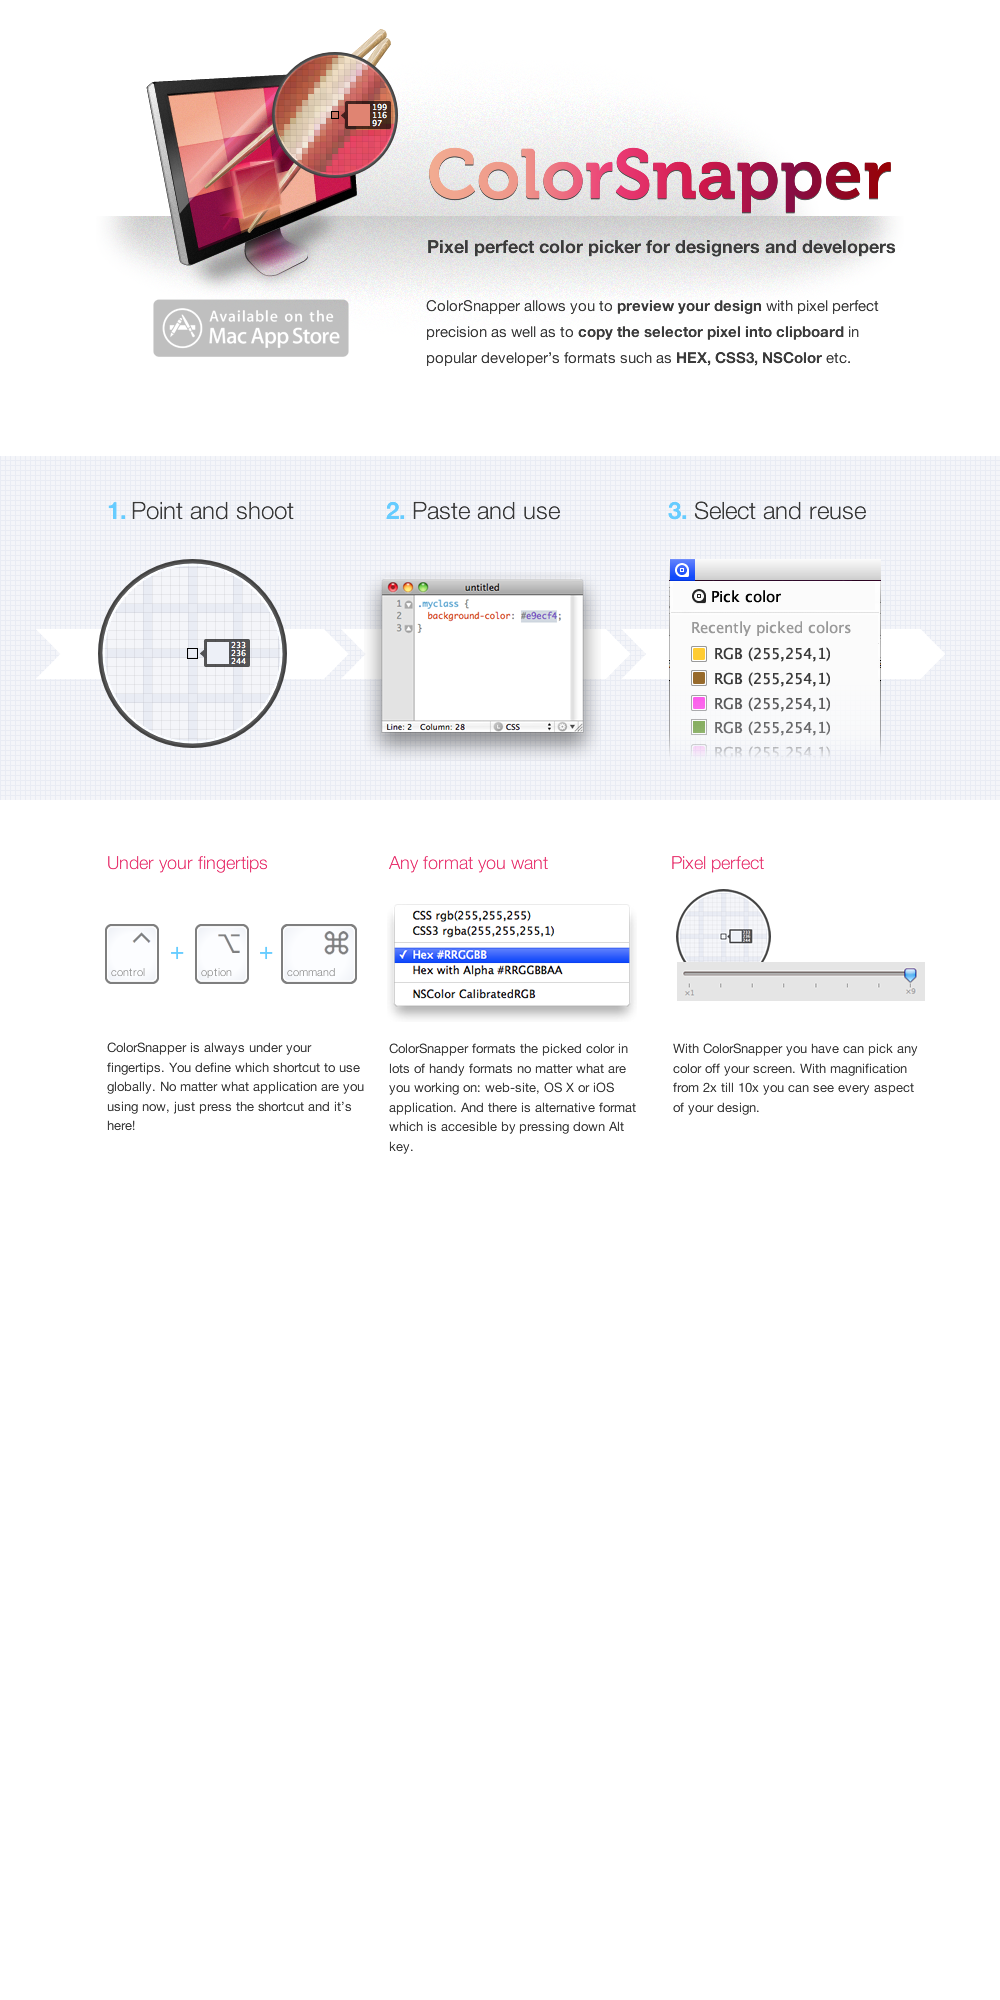
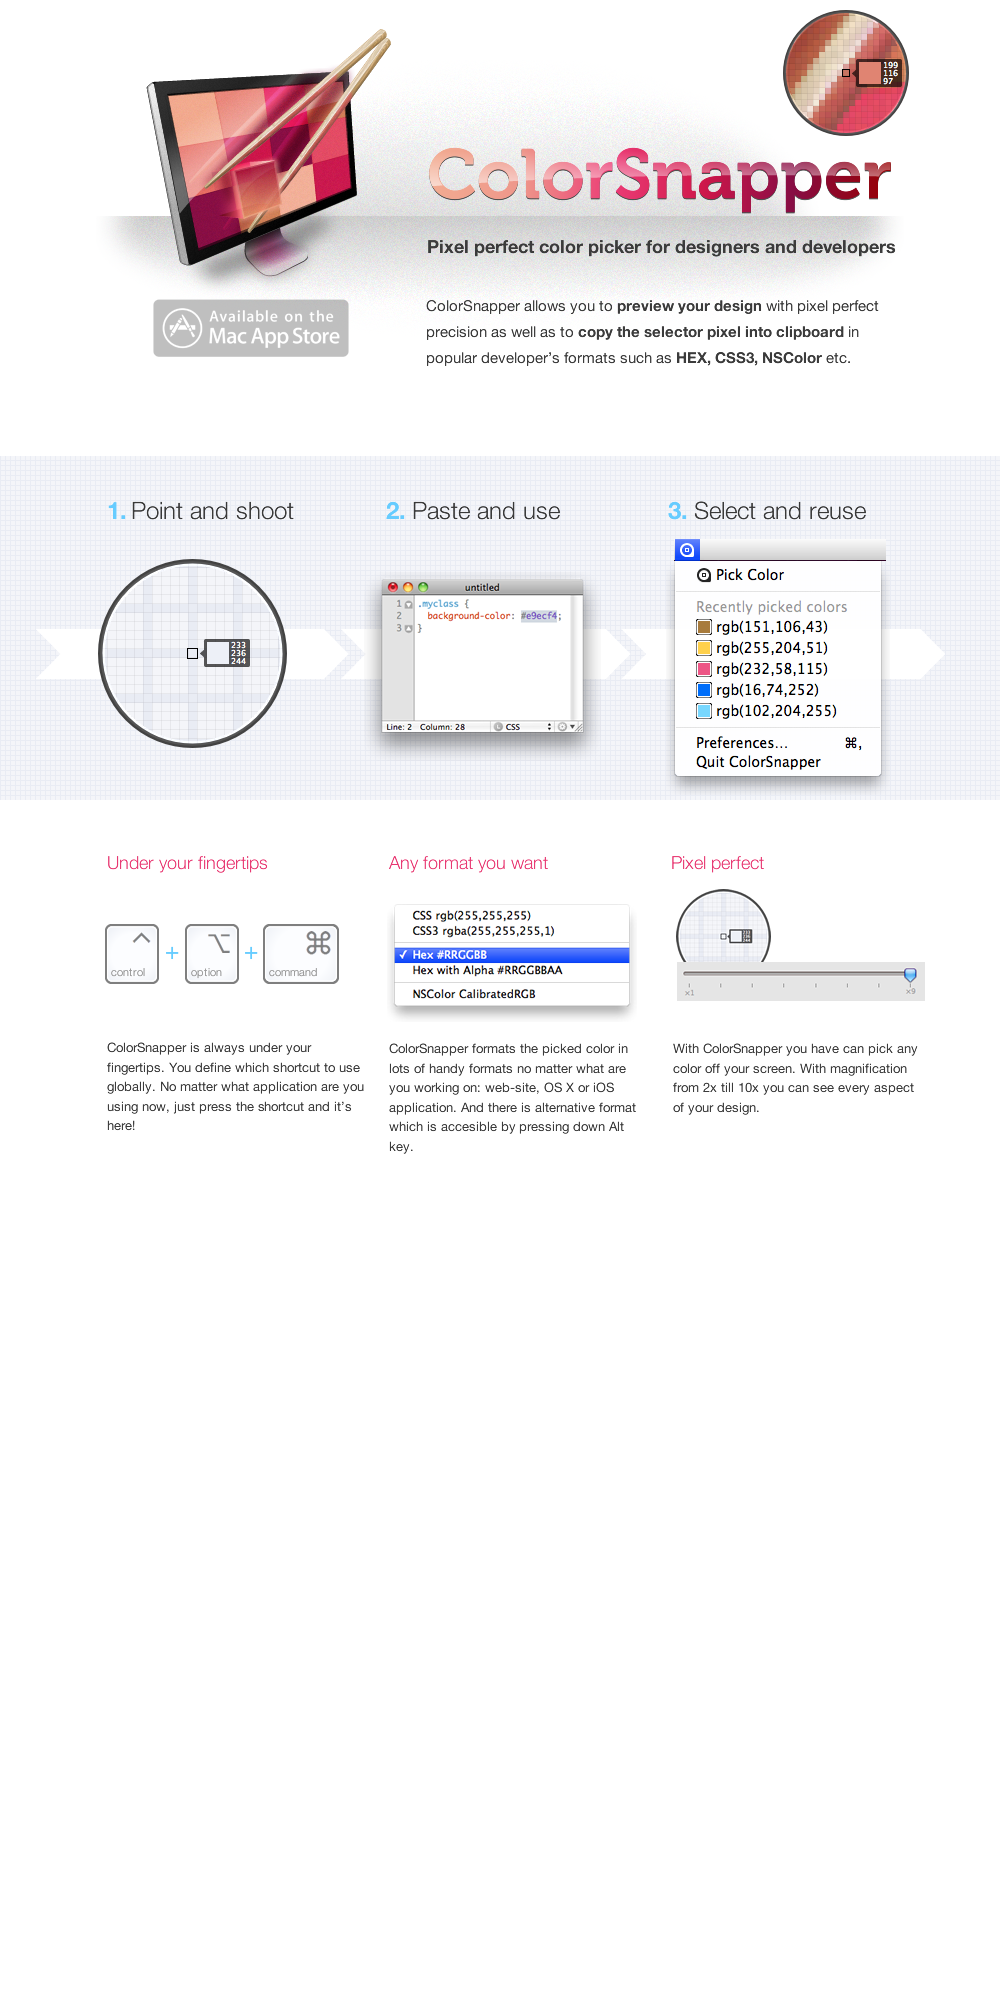
Completed header section

diff --git a/static/js/jquery.jloupe.js b/static/js/jquery.jloupe.js
@@ -1,0 +1,129 @@
+/*
+ jQuery Loupe v1.3.1
+ https://github.com/iufer/jLoupe
+*/
+
+jQuery.fn.jloupe = function(o){
+	var version = '1.3.1';
+	var options = {		
+		width:200,
+		height:200,
+		margin:6,
+		cursorOffsetX:10,
+		cursorOffsetY:10,
+		radiusLT:0,
+		radiusLB:100,
+		radiusRT:100,
+		radiusRB:100,
+		borderColor:'#999',
+		backgroundColor:'#ddd',
+		image: false,
+		repeat: false,
+		fade: true
+	};
+	if(o) {
+		jQuery.extend(options, o);
+		if(o.hasOwnProperty('color')) {
+			options.borderColor = options.backgroundColor = o.color;
+		}
+	}
+	var loupe = $('<div />').addClass('thejloupe')
+		.css('position','absolute')
+		.css('width',options.width +'px')
+		.css('height',options.height +'px')
+		.css('backgroundColor', options.borderColor)
+		.hide()
+		.appendTo('body');
+	if(!options.borderColor) loupe.css('backgroundColor', 'none')
+	if(options.repeat) loupe.css('backgroundRepeat', 'repeat');	
+	else loupe.css('backgroundRepeat', 'no-repeat');	
+			
+	var view = $('<div />').addClass('thejloupeview')
+		.css('width',options.width-options.margin*2 +'px')
+		.css('height',options.height-options.margin*2 +'px')
+		.css('backgroundRepeat','no-repeat')
+		.css('marginLeft', options.margin +'px')
+		.css('marginTop', options.margin +'px')
+		.appendTo(loupe);
+
+	if(options.backgroundColor) view.css('backgroundColor', options.backgroundColor);
+
+	if($.support.cssProperty('borderRadius')){
+		if(options.image) loupe.css('backgroundImage', 'url('+ options.image +')');
+		
+		$(view)
+			.css('border-top-left-radius', options.radiusLT)
+			.css('border-bottom-left-radius', options.radiusLB)
+			.css('border-bottom-right-radius', options.radiusRB)
+			.css('border-top-right-radius', options.radiusRT)
+			.css('-moz-border-radius-topleft', options.radiusLT)
+			.css('-moz-border-radius-bottomright', options.radiusRB)
+			.css('-moz-border-radius-bottomleft', options.radiusLB)
+			.css('-moz-border-radius-topright', options.radiusRT);
+		if(!options.image || options.repeat) {
+			$(loupe)
+				.css('border-top-left-radius', options.radiusLT)
+				.css('border-bottom-left-radius', options.radiusLB)
+				.css('border-bottom-right-radius', options.radiusRB)
+				.css('border-top-right-radius', options.radiusRT)
+				.css('-moz-border-radius-topleft', options.radiusLT)
+				.css('-moz-border-radius-bottomright', options.radiusRB)
+				.css('-moz-border-radius-bottomleft', options.radiusLB)
+				.css('-moz-border-radius-topright', options.radiusRT);
+		}
+	}		
+		
+	$(this).each(function(){
+		var h = $(this).parent('a').attr('href');
+		var s = $(this).attr('src');
+		s = (h) ? h : s;
+		var i = $('<img />').attr('src', s);	
+		$(this).data('zoom',i);		
+	})
+	.bind('mousemove', function(e){ 
+		var o = $(this).offset();
+		var i = $(this).data('zoom');
+		var posx = 0, posy = 0;
+		if(e.pageX || e.pageY){
+			posx = e.pageX;
+			posy = e.pageY;
+		}
+		else if(e.clientX || e.clientY){
+			posx = e.clientX + document.body.scrollLeft + document.documentElement.scrollLeft;
+			posy = e.clientY + document.body.scrollTop + document.documentElement.scrollTop;
+		}
+		$(loupe).offset({top:posy+options.cursorOffsetY, left:posx+options.cursorOffsetX});
+		zlo = (((posx - o.left) / this.width) * $(i).attr('width') *-1) + (options.width/2.5);
+		zto = (((posy - o.top) / this.height) * $(i).attr('height') *-1) + (options.height/2.5);
+		$(view).css('backgroundImage', 'url('+ $(i).attr('src') +')').css('backgroundPosition', zlo+'px ' + zto+'px');
+	})
+	.bind('mouseleave', function(){
+		$(loupe).stop(true, true);
+		if(options.fade) $(loupe).fadeOut(100);
+		else $(loupe).hide();
+	})
+	.bind('mouseenter', function(){
+		$(loupe).stop(true, true);
+		if(options.fade) $(loupe).fadeIn();
+		else $(loupe).show();
+	});
+	
+	return this;
+};
+	
+
+$.support.cssProperty = (function() {
+  function cssProperty(p, rp) {
+    var b = document.body || document.documentElement;
+    var s = b.style;
+    if(typeof s == 'undefined') { return false; }
+    if(typeof s[p] == 'string') { return rp ? p : true; }
+    var v = ['Moz', 'Webkit', 'Khtml', 'O', 'Ms'];
+    p = p.charAt(0).toUpperCase() + p.substr(1);
+    for(var i=0; i<v.length; i++) {if(typeof s[v[i] + p] == 'string') { return rp ? (v[i] + p) : true; }}
+  }
+  return cssProperty;
+})();
+
+
+$(function(){ $('.jLoupe, .jloupe').jloupe(); });

diff --git a/views/stylesheets/screen.scss b/views/stylesheets/screen.scss
@@ -26,6 +26,8 @@ body {
   @include blueprint-interaction;
   // Remove the scaffolding when you're ready to start doing visual design.
   // Or leave it in if you're happy with how blueprint looks out-of-the-box
+  
+  -webkit-font-smoothing: antialiased;
 }
 
 
@@ -42,9 +44,52 @@ body {
 }
 
 .b-header {
+  padding-bottom: 24px;
+  background: url('/i/bg.jpg') 50% 40px no-repeat;
+  
   .b-header-wrap {
+  }
+  
+  .b-logo-container {
+    @include column(9);
+
+    a {
+      display: block;
+      padding-top: 20px;
+      @include prepend(2);
+    }
+  }
+  .b-logo-text {
+    padding-top: 120px;
     @include column(13, true);
-    @include prepend(9);
+
+    .b-logo {
+      @include replace-text-with-dimensions('logo-text.png', 462, 67);
+    }
+    .b-tagline {
+      font-size: 1.5em;
+      font-weight: bold;
+    }
+    p {
+      font-size: 1.35em;
+      @include append(1);
+      
+      em {
+        font-style: normal;
+        white-space: nowrap;
+        background-color: #f7efc5;
+      }
+    }
+  }
+
+  .b-appstore {
+    padding-top: 20px;
+    @include prepend(2.5);
+
+    a {
+      display: block;
+      @include replace-text-with-dimensions('b-appstore.png', 198, 60);
+    }
   }
 }
 
